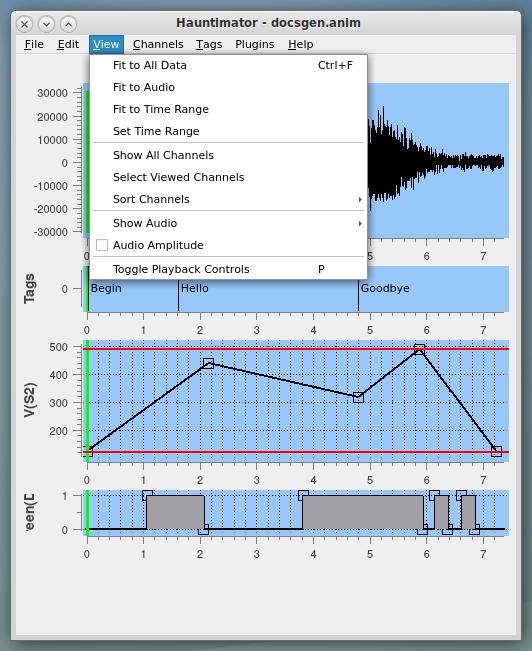
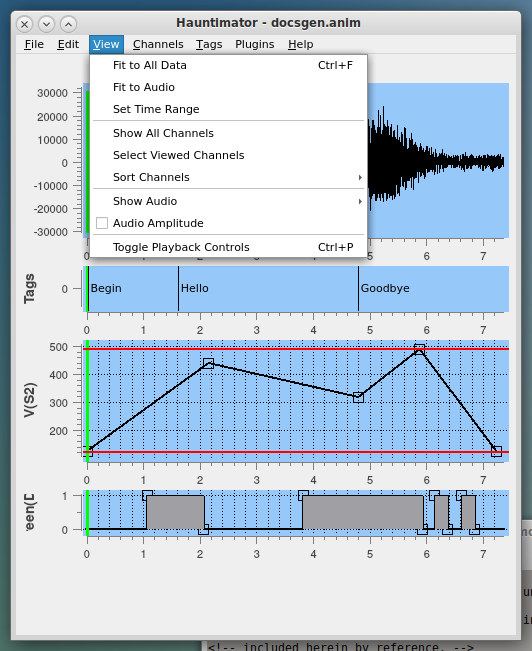
Changed playback control from ctrl-P to space bar. Changed playback control view from P to ctrl-P. Removed Fit to Time Range that seemed to not do much. Fixed bug when cancelling a Tag insertion. Updated docs with new menus and hot keys.

diff --git a/MainWindow.py b/MainWindow.py
@@ -537,7 +537,7 @@ class TagPane(qwt.QwtPlot):
                     self.addTag(self.selectedtag, text)
                 else:
                     # Forget that we were trying to put in a tag
-                    self.undo_action()
+                    self.mainwindow.undo_action()
             self.mainwindow.updateXMLPane()
             self.mainwindow.tagSelectUpdate()
 
@@ -3335,7 +3335,7 @@ class MainWindow(QMainWindow):
 
         # Set up the playback widget
         self._playwidget = Player(audio=self.animatronics.newAudio)
-        shortcut = QShortcut(QKeySequence("Ctrl+P"), self._mainarea)
+        shortcut = QShortcut(QKeySequence(" "), self._mainarea)
         shortcut.activated.connect(self._playwidget.play)
         self._playwidget.setLeftConnect(self.cutLeftSide)
         self._playwidget.setRightConnect(self.cutRightSide)
@@ -5989,9 +5989,11 @@ class MainWindow(QMainWindow):
         self.view_menu.addAction(self._scaletoaudio_action)
 
         # scaletotimerange menu item
+        ''' I don't know what this is supposed to be doing and it doesn't do much so it is gone
         self._scaletotimerange_action = QAction("Fit to Time Range", self,
             triggered=self.scaletotimerange_action)
         self.view_menu.addAction(self._scaletotimerange_action)
+        '''
 
         # settimerange menu item
         self._settimerange_action = QAction("Set Time Range", self,
@@ -6041,7 +6043,7 @@ class MainWindow(QMainWindow):
 
         # playbackcontrols menu item
         self._playbackcontrols_action = QAction("Toggle Playback Controls", self,
-            shortcut="P",
+            shortcut=QKeySequence.Print,
             triggered=self.playbackcontrols_action)
         self.view_menu.addAction(self._playbackcontrols_action)
 
@@ -6058,7 +6060,7 @@ class MainWindow(QMainWindow):
 
         # deselectAll menu item
         self._deselectAll_action = QAction("Deselect All", self,
-            shortcut=QKeySequence.Deselect,
+            shortcut=QKeySequence("Ctrl+Shift+A"),
             triggered=self.deselectAll_action)
         self.channel_menu.addAction(self._deselectAll_action)
 

diff --git a/docs/Help.md b/docs/Help.md
@@ -59,6 +59,7 @@ The Hauntimator GUI consists of, from top to bottom, a menubar, audio channel di
 and control channel displays called panes.  When the user loads an audio file into Hauntimator
 it is displayed using one pane for mono or two panes for left and right stereo.  It is not
 necessary for there to be an audio file in use and none will be displayed in that case.
+However, without an audio file playback will not function.
 
 ![Image of User Interface](images/image1.png)
 
@@ -303,7 +304,7 @@ to files and communication.  The individual preferences are:
 + ShowTips - Controls the use of popup tool tips within Hauntimator.  Beginning users may find the popup tips helpful while an experienced user may find them bothersome.  Some go away automatically so hopefully they will not prove to be obnoxious.
 + ServoDataFile - The name of the file containing known servo types and their associated information.  The user may rename this file or move it so the preference allows that.  The values in the servo file are used to set initial limits on the channel values.  These are based on the ServoDefaultMaximum and ServoDefaultMinimum and the duty cycle of the servo from the file.  These are NOT used to distinguish servos on GPIO pins from servos on PCA9685 boards.  That is done within the controller.
 + UploadPath - The name of the directory to upload audio and control files to as it is used in the controller software.  The Pico software that accompanies the Hauntimator and is run on the Pico looks for a particular file and this must match that.  This will typically be on the SD card and look like "/sd/anims" to match expectations in the controller software.  If the controller software is edited, this can be changed to match.  Note that this is irrelevant if writing files locally to an SD card to be transferred later to the controller.
-+ TTYPortRoot - This is the name of the communications port to use to talk to the controller when it is plugged into the USB port on the computer that Hauntimator runs on.  Under linux, this is typically /dev/ttyACM0.  On a Mac it is more like /dev/tty00bb10.  Under Windows it is something I don't care about.  Note that this is irrelevant if writing files locally to an SD card to be transferred later to the controller and otherwise not using Hauntimator to talk directly to the controller.
++ TTYPortRoot - This is most of the name of the communications port to use to talk to the controller when it is plugged into the USB port on the computer that Hauntimator runs on.  Under linux, this is typically /dev/ttyACM0 but may also be /dev/ttyACM1, 2, ... so the TTYPortRoot is set to /dev/ttyACM.  On a Mac it is more like /dev/tty00bb10 so the TTYPortRoot is set to /dev/tty00bb1.  Under Windows it is something I don't care about.  Note that this is irrelevant if writing files locally to an SD card to be transferred later to the controller and otherwise not using Hauntimator to talk directly to the controller.
 
 <a name="view">
 &nbsp;
@@ -352,6 +353,9 @@ A third method is supported by tags within the animation.  Clicking the left mou
 button on a tag within the tag pane while holding down the Ctrl key will zoom the
 display to the duration of the tag.  See the [Tag Menu](#tags) for more details
 on the use of tags.
+
+A fourth method is to select View->Set Time Range and enter specific values for the
+desired time range to be displayed.
 
 <a name="timeranges">
 &nbsp;
@@ -456,7 +460,7 @@ the animation and some helpful uses for them.  The Tags menu contains the follow
 
 + Insert Tag - Insert a tag at the current playback time (designated by the green bar)
 + Tag Selector - Brings up a widget for selecting a tag
-+ Import Script - Reads a script file and create tags
++ Import Script - Reads a script file and creates tags
 + Toggle Tag Pane - Toggle visibility of the Tags pane
 + Clear All Tags - Delete all tags and clear the Tags pane
 
@@ -466,7 +470,7 @@ at any time by clicking the left mouse button while holding down the shift key a
 pane.  Again a popup prompts for the text for the tag unless the selected time exactly matches that of
 another tag.
 
-If the cursor is on the bar designating a tag in the Tags pane, the ctrl-T hot key will select that tag
+If the cursor is on the bar designating a tag in the Tags pane, the ctrl-left click will select that tag
 and zoom the display to the time range of that tag to the next tag rather than inserting an additional
 tag.
 

diff --git a/docs/HotKeys.md b/docs/HotKeys.md
@@ -6,9 +6,9 @@
 # Hot Key Cheat Sheet
 ---
 ## Normal Keys
-- P - Toggle Playback controls display
+- Space - Play/Pause Playback
 - T - Toggle Tag panel display
-- Del - Delete selected points in channel(s)
+- Del - Delete selected point(s) or channel(s)
 
 ## Control Keys
 - Ctrl-A - Select All Channels
@@ -20,8 +20,8 @@
 - Ctrl-I - Insert at
 - Ctrl-N - New animation
 - Ctrl-O - Open animation file
-- Ctrl-P - Play/Pause Playback
-- Ctrl-Shift-P - Play on Hardware
+- Ctrl-P - Toggle Playback controls display
+- Ctrl-Shift-P - Send play command to Hardware
 - Ctrl-Q - Quit
 - Ctrl-R - Restore channel display range to default
 - Ctrl-S - Save animation file
